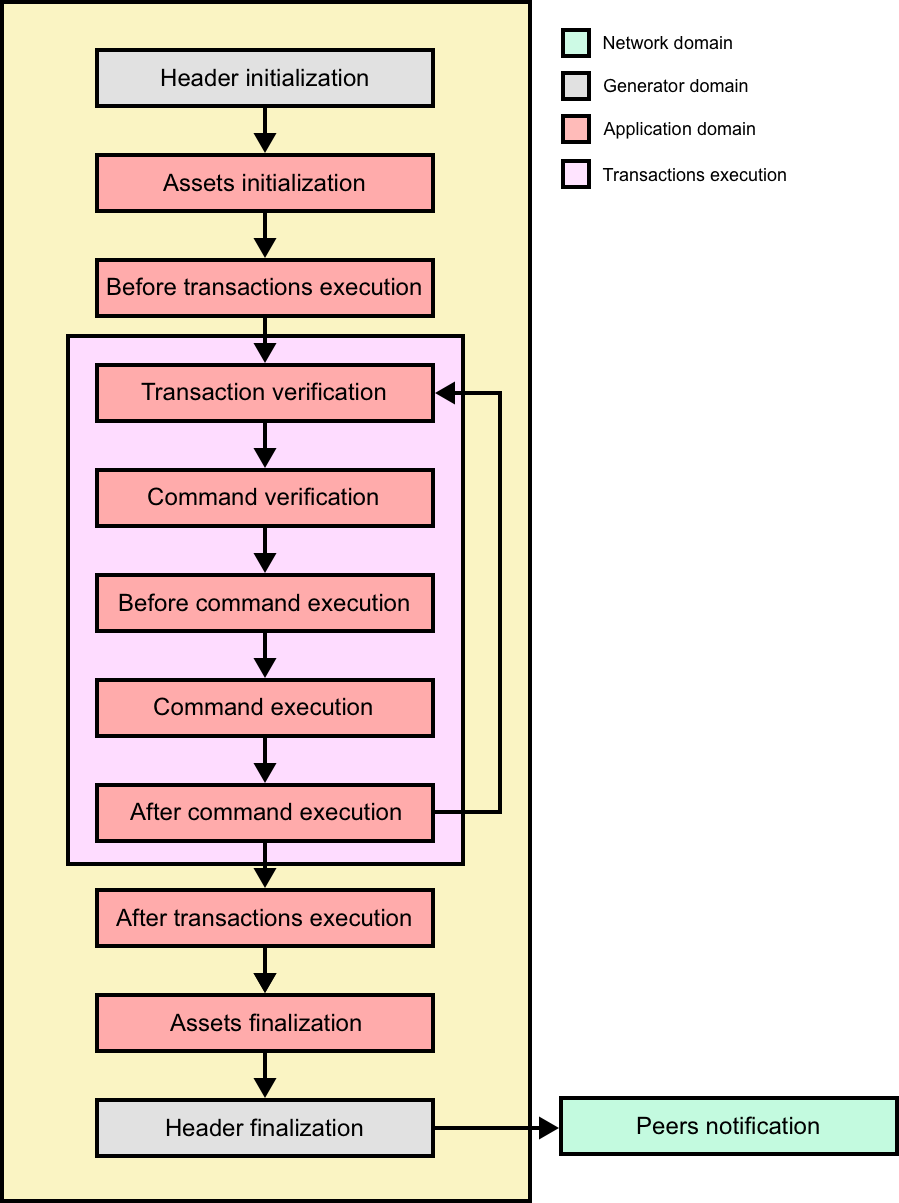
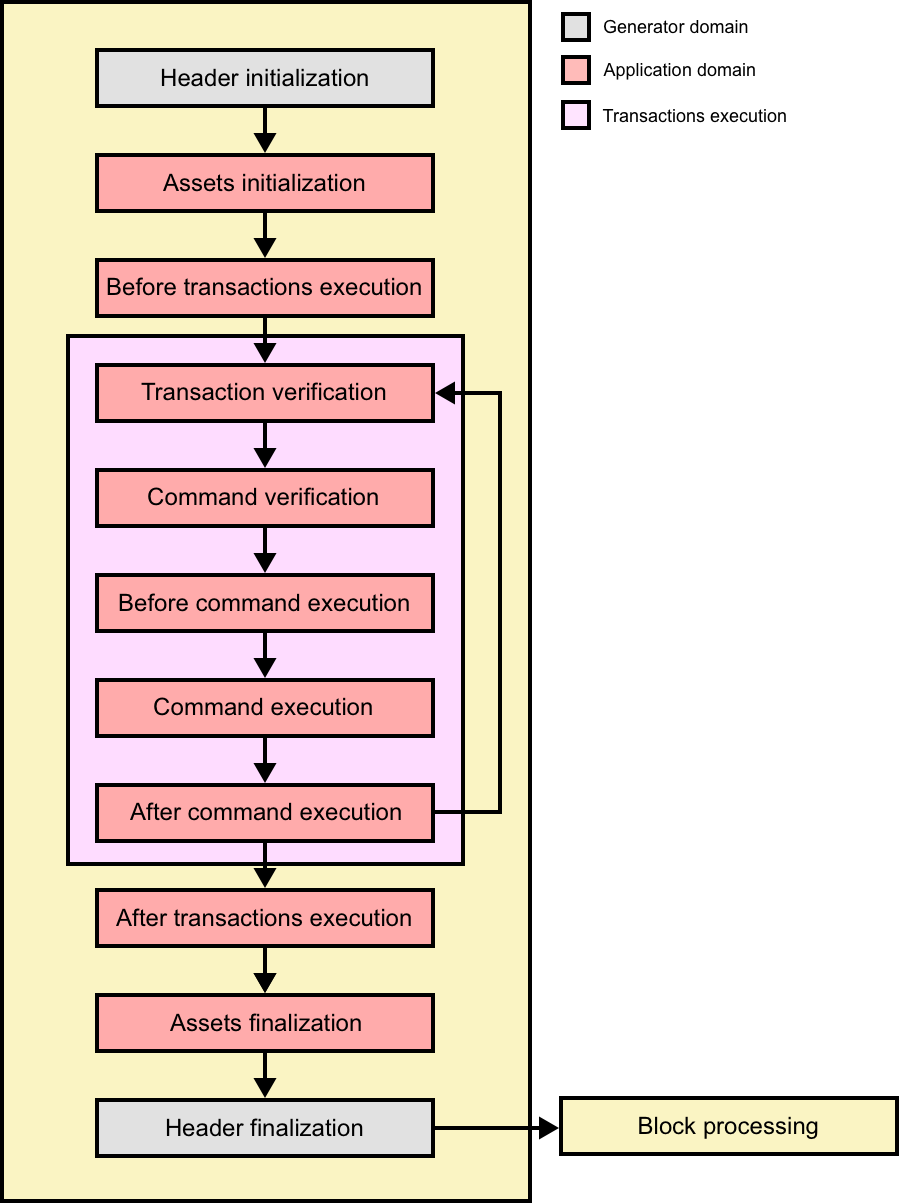
fix figure 2 and generation process

Changed region(s): [[0.6229, 0.0, 0.8721, 0.1845], [0.6229, 0.8919, 0.9967, 0.9842]]

diff --git a/proposals/lip-0055.md b/proposals/lip-0055.md
@@ -143,7 +143,7 @@ The full processing of a block is organized as follows.
 
 <img src="lip-0055/generation_stages.png" width="70%">
 
-*Figure 2: A schematic depiction of the various stages of a block generation. The stages performed in the generator domain are indicated by grey boxes, while the stages performed in the application domain are indicated by red boxes. Within the application domain, the transactions processing is indicated by purple boxes. The network domain is indicated by green boxes.*
+*Figure 2: A schematic depiction of the various stages of a block generation. The stages performed in the generator domain are indicated by grey boxes, while the stages performed in the application domain are indicated by red boxes. Within the application domain, the transactions processing is indicated by purple boxes. At the end of the generation, the block goes through the block processing stages (yellow box).*
 
 In this section, we describe the various stages of a block generation.
 
@@ -164,7 +164,7 @@ After this stage has been completed, transactions are selected one-by-one from a
 9. **After transactions execution**: Each module can define protocol logic that is executed *after* all the transactions contained in the block have been processed.
 10. **Assets finalization**: Each module can update or insert new information in the block assets *after* the state transitions implied by the block are executed.
 11. **Header finalization**: Block header properties, which require accessing the state store *after* all state transitions implied by the block have been executed, are inserted.
-12. **Peers notification**: Other peers in the P2P network are notified of the new block.
+12. **Block processing**: The block goes through the [block processing stages](#block-processing-stages).
 
 
 ### Block
